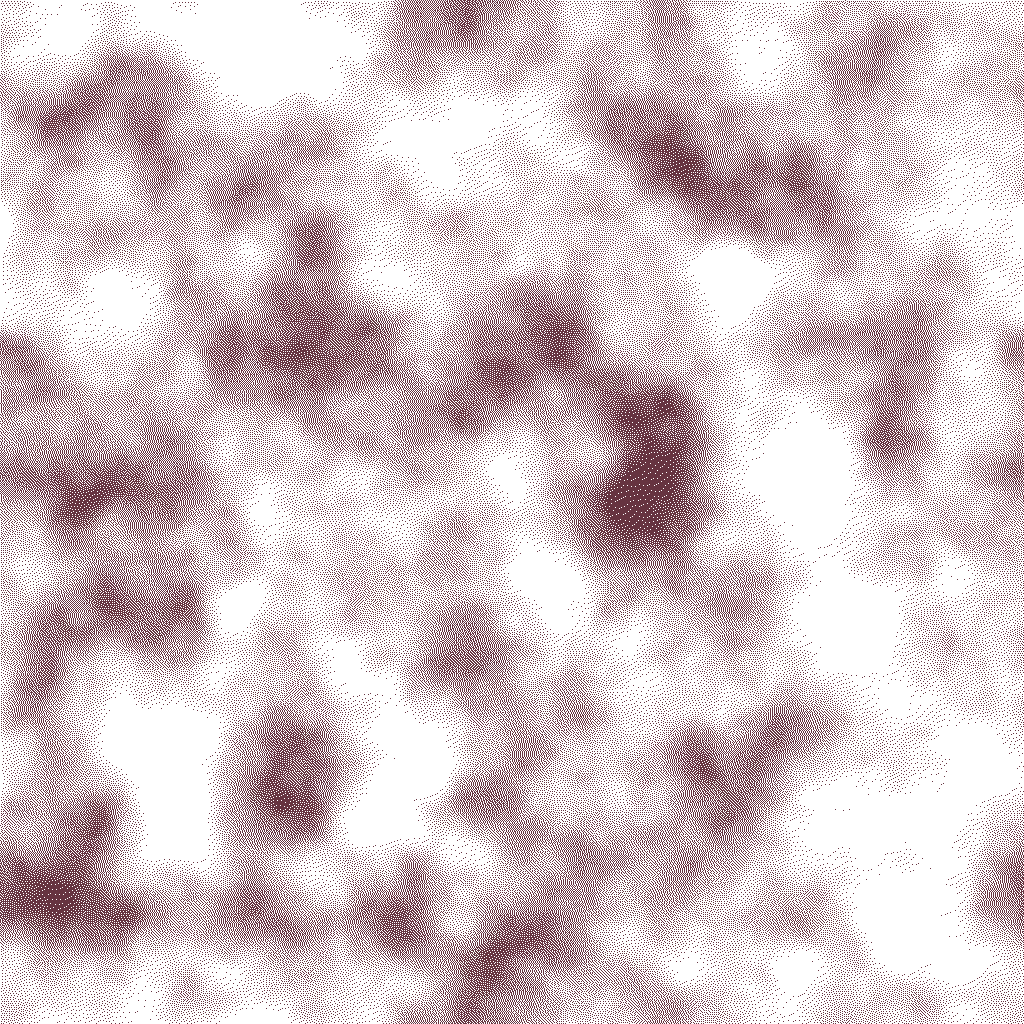
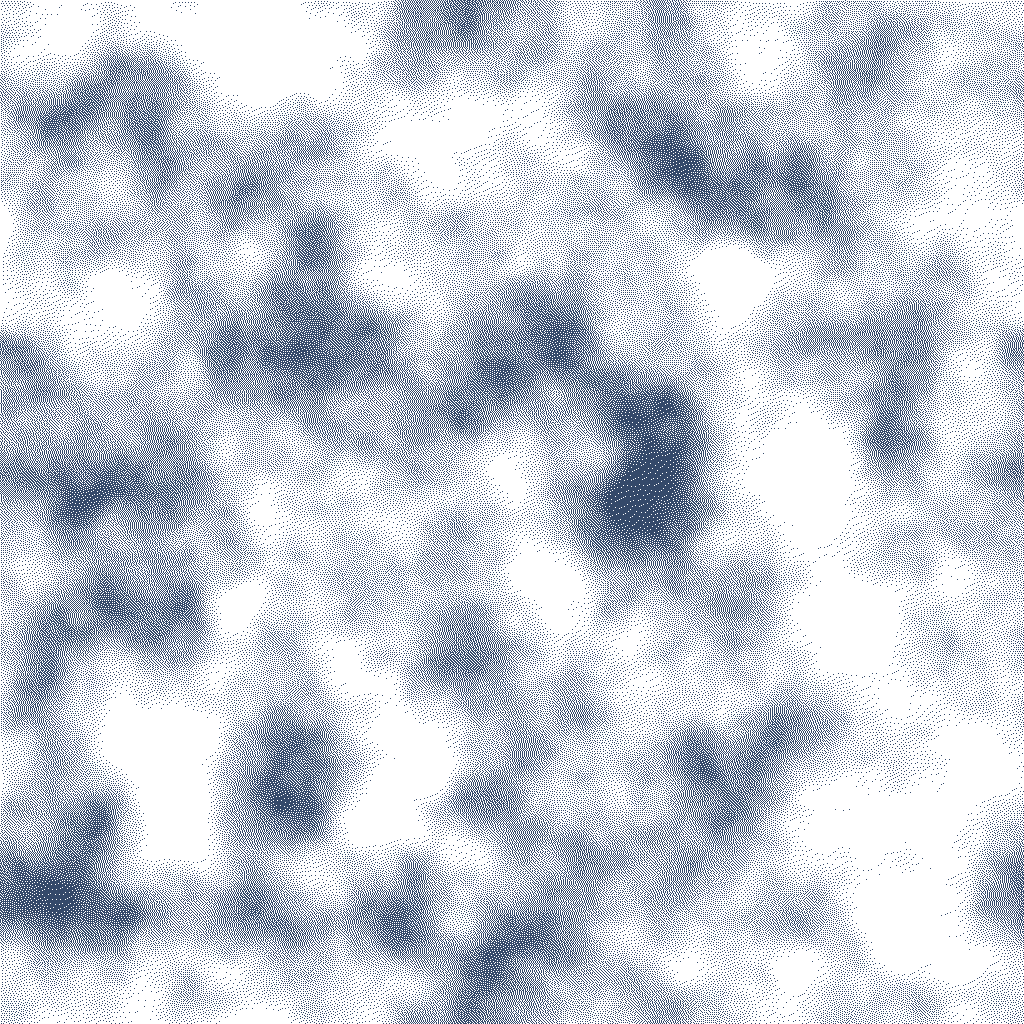
Change accent theme from pink to pastel blue

Changed region(s): [[0.0, 0.0, 1.0, 1.0], [0.9375, 0.7812, 1.0, 1.0], [0.0, 0.0, 0.0312, 0.0312]]

diff --git a/src/styles/global.css b/src/styles/global.css
@@ -18,12 +18,12 @@
   --text-dim: #aaa495;
   --text-faint: #7f7a6f;
 
-  /* Accent: the gas pink. --accent-dim is the exact gas tone (lines,
+  /* Accent: pastel blue. --accent-dim is the exact gas tone (lines,
      markers, bars); --accent is the same hue lightened for readable text. */
-  --accent: #d590a1;
-  --accent-dim: #965162;
-  --accent-deep: #663340;
-  --accent-glow: rgb(150 81 98 / 0.5);
+  --accent: #a3c4ec;
+  --accent-dim: #5a7ca6;
+  --accent-deep: #34496a;
+  --accent-glow: rgb(90 124 166 / 0.5);
 
   --ease-out: cubic-bezier(0.16, 1, 0.3, 1);
 
@@ -96,7 +96,7 @@ a {
 a:hover {
   color: var(--accent);
   text-decoration-color: var(--accent);
-  background-color: rgb(150 81 98 / 0.14);
+  background-color: rgb(90 124 166 / 0.14);
 }
 
 /* Highlighted names and fields: phosphor text with a faint bloom. */
@@ -303,7 +303,7 @@ main {
 .icons a:hover,
 .motion-toggle:hover {
   color: var(--accent);
-  background: rgb(150 81 98 / 0.14);
+  background: rgb(90 124 166 / 0.14);
 }
 
 .motion-toggle {
@@ -671,7 +671,7 @@ main {
 .intro .hs summary:hover span {
   color: var(--accent);
   text-decoration-color: var(--accent);
-  background-color: rgb(150 81 98 / 0.14);
+  background-color: rgb(90 124 166 / 0.14);
 }
 
 .intro .hs[open] summary {
@@ -1008,7 +1008,7 @@ main {
   padding: 0.08em 0.38em;
   border: 1px solid var(--line);
   background: var(--bg-inset);
-  color: #ece2e0;
+  color: #e0e8f0;
   font-family: var(--font-mono);
   font-size: 0.92em;
   overflow-wrap: anywhere;
@@ -1228,7 +1228,7 @@ main {
 .np-btn:hover {
   color: var(--accent);
   border-color: var(--accent-dim);
-  background: rgb(150 81 98 / 0.14);
+  background: rgb(90 124 166 / 0.14);
 }
 
 .np[data-state='playing'] .np-btn {
